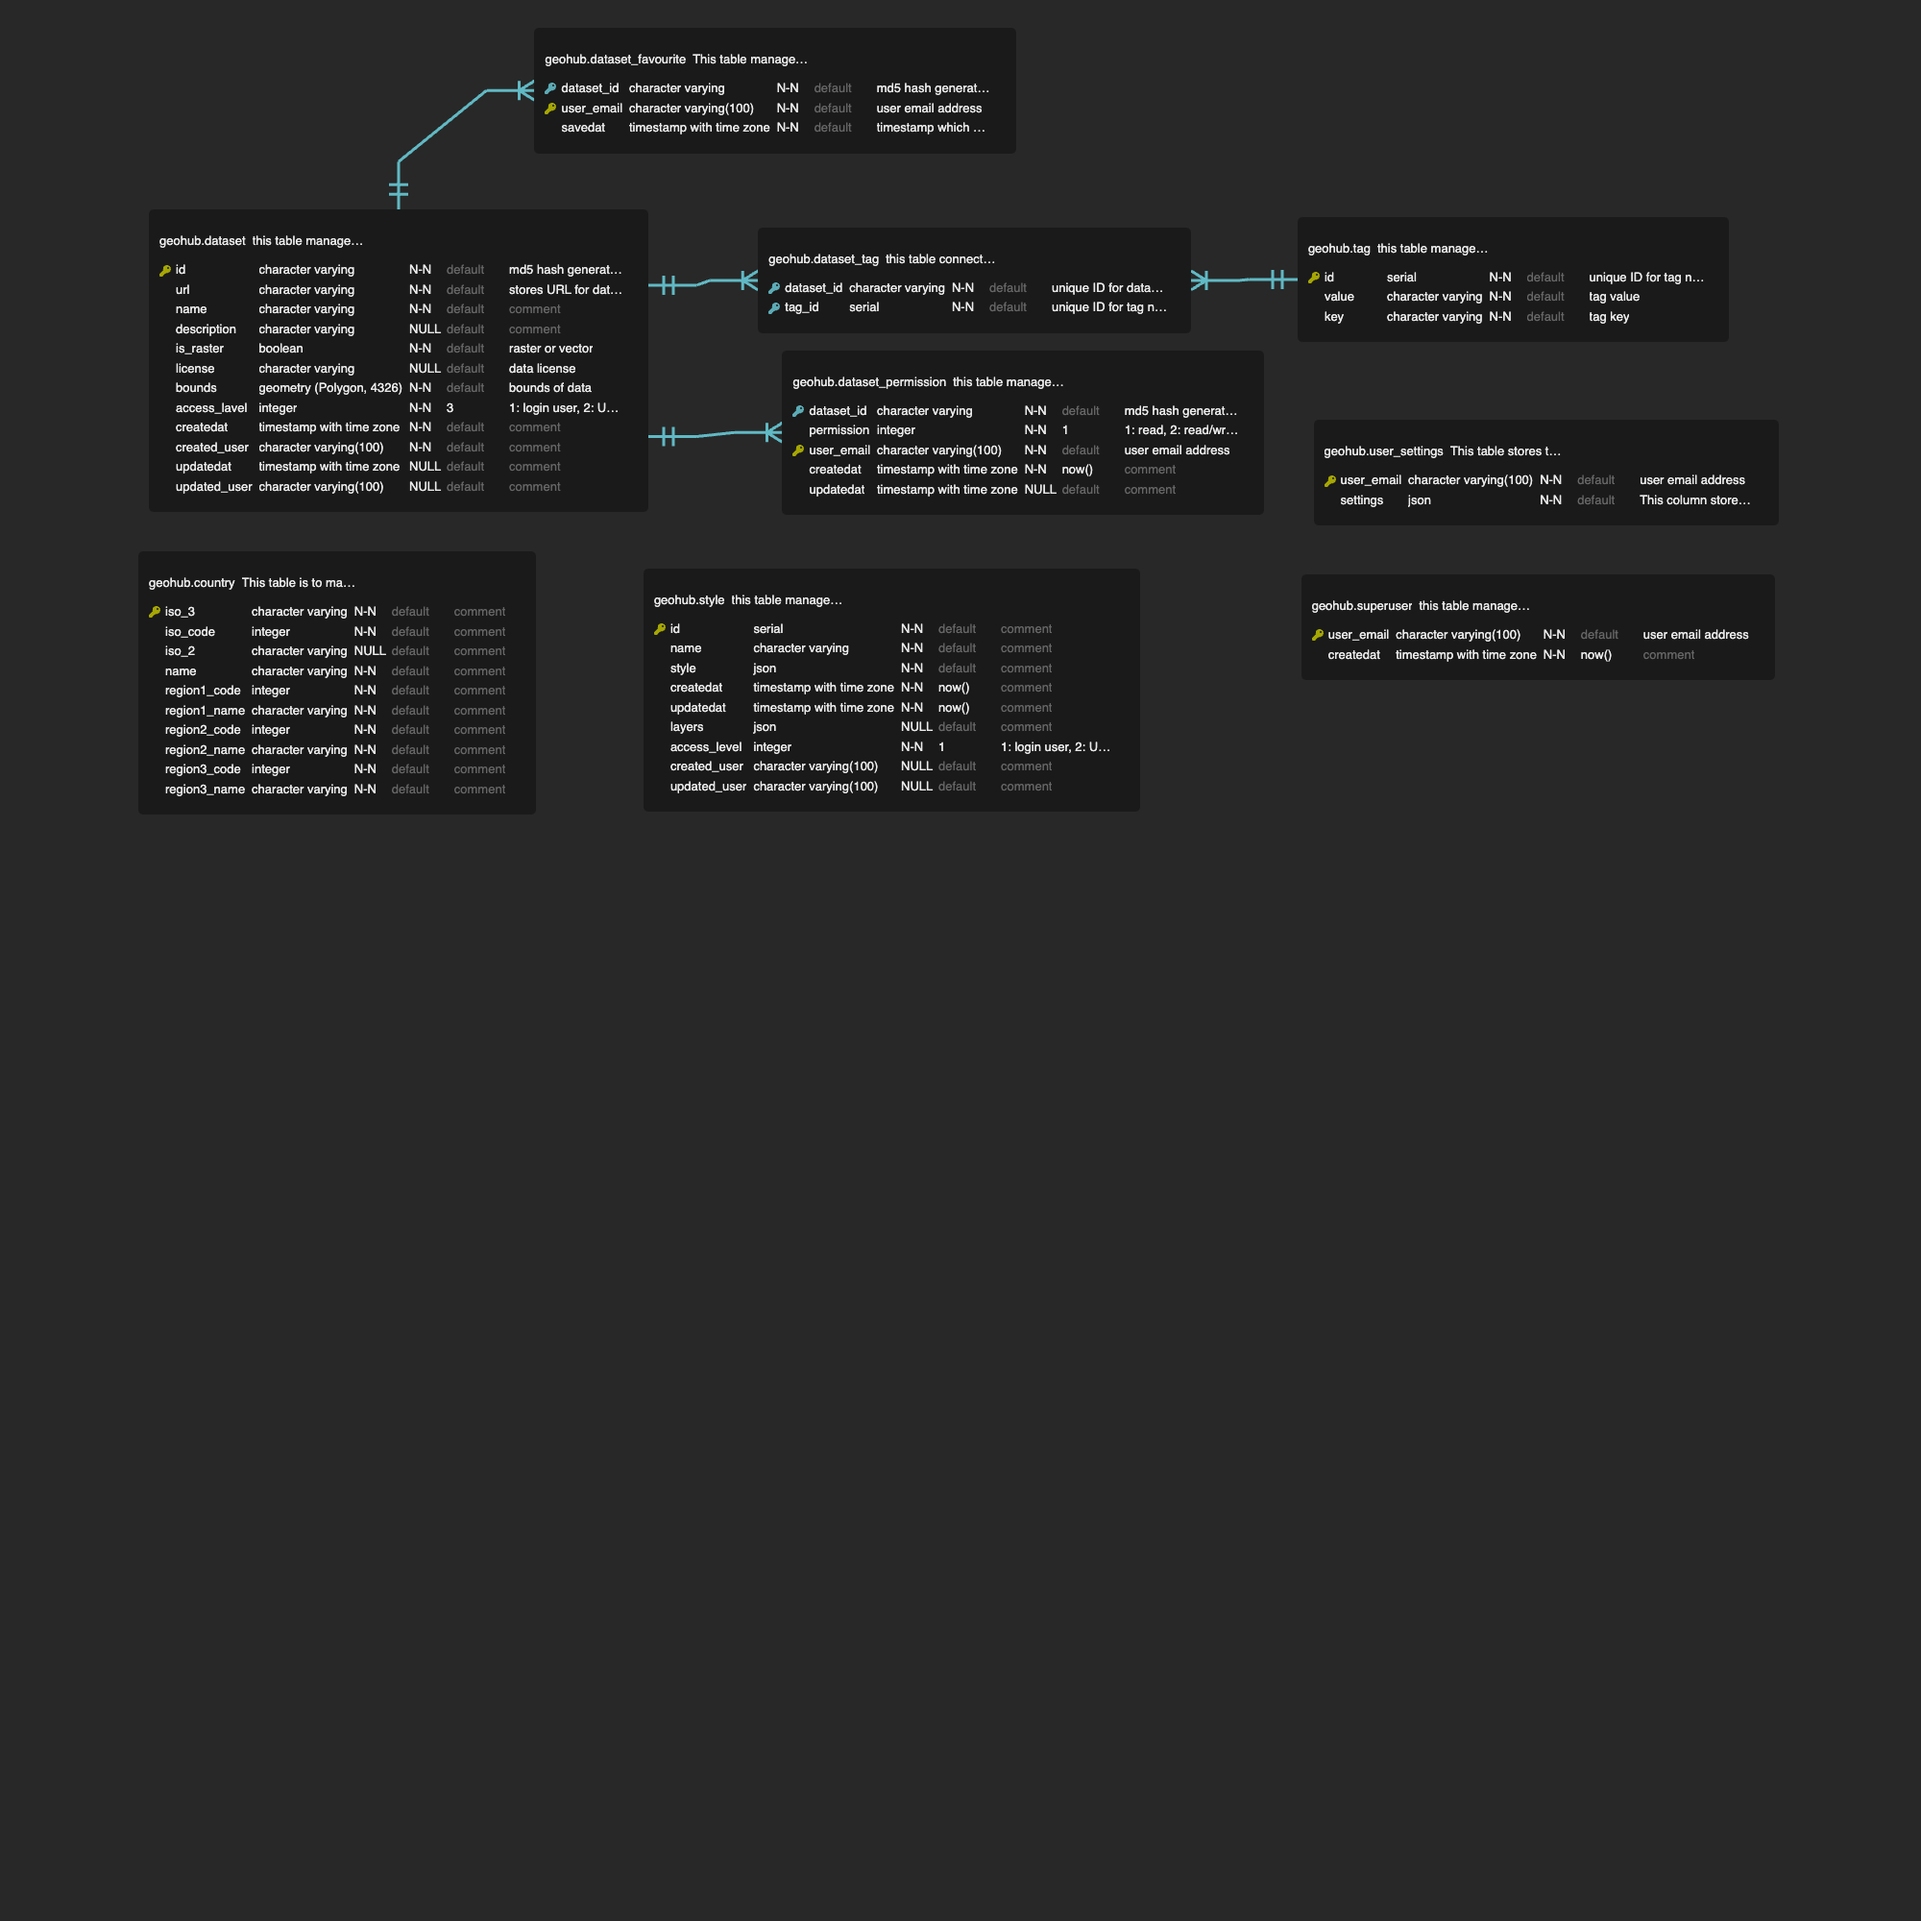
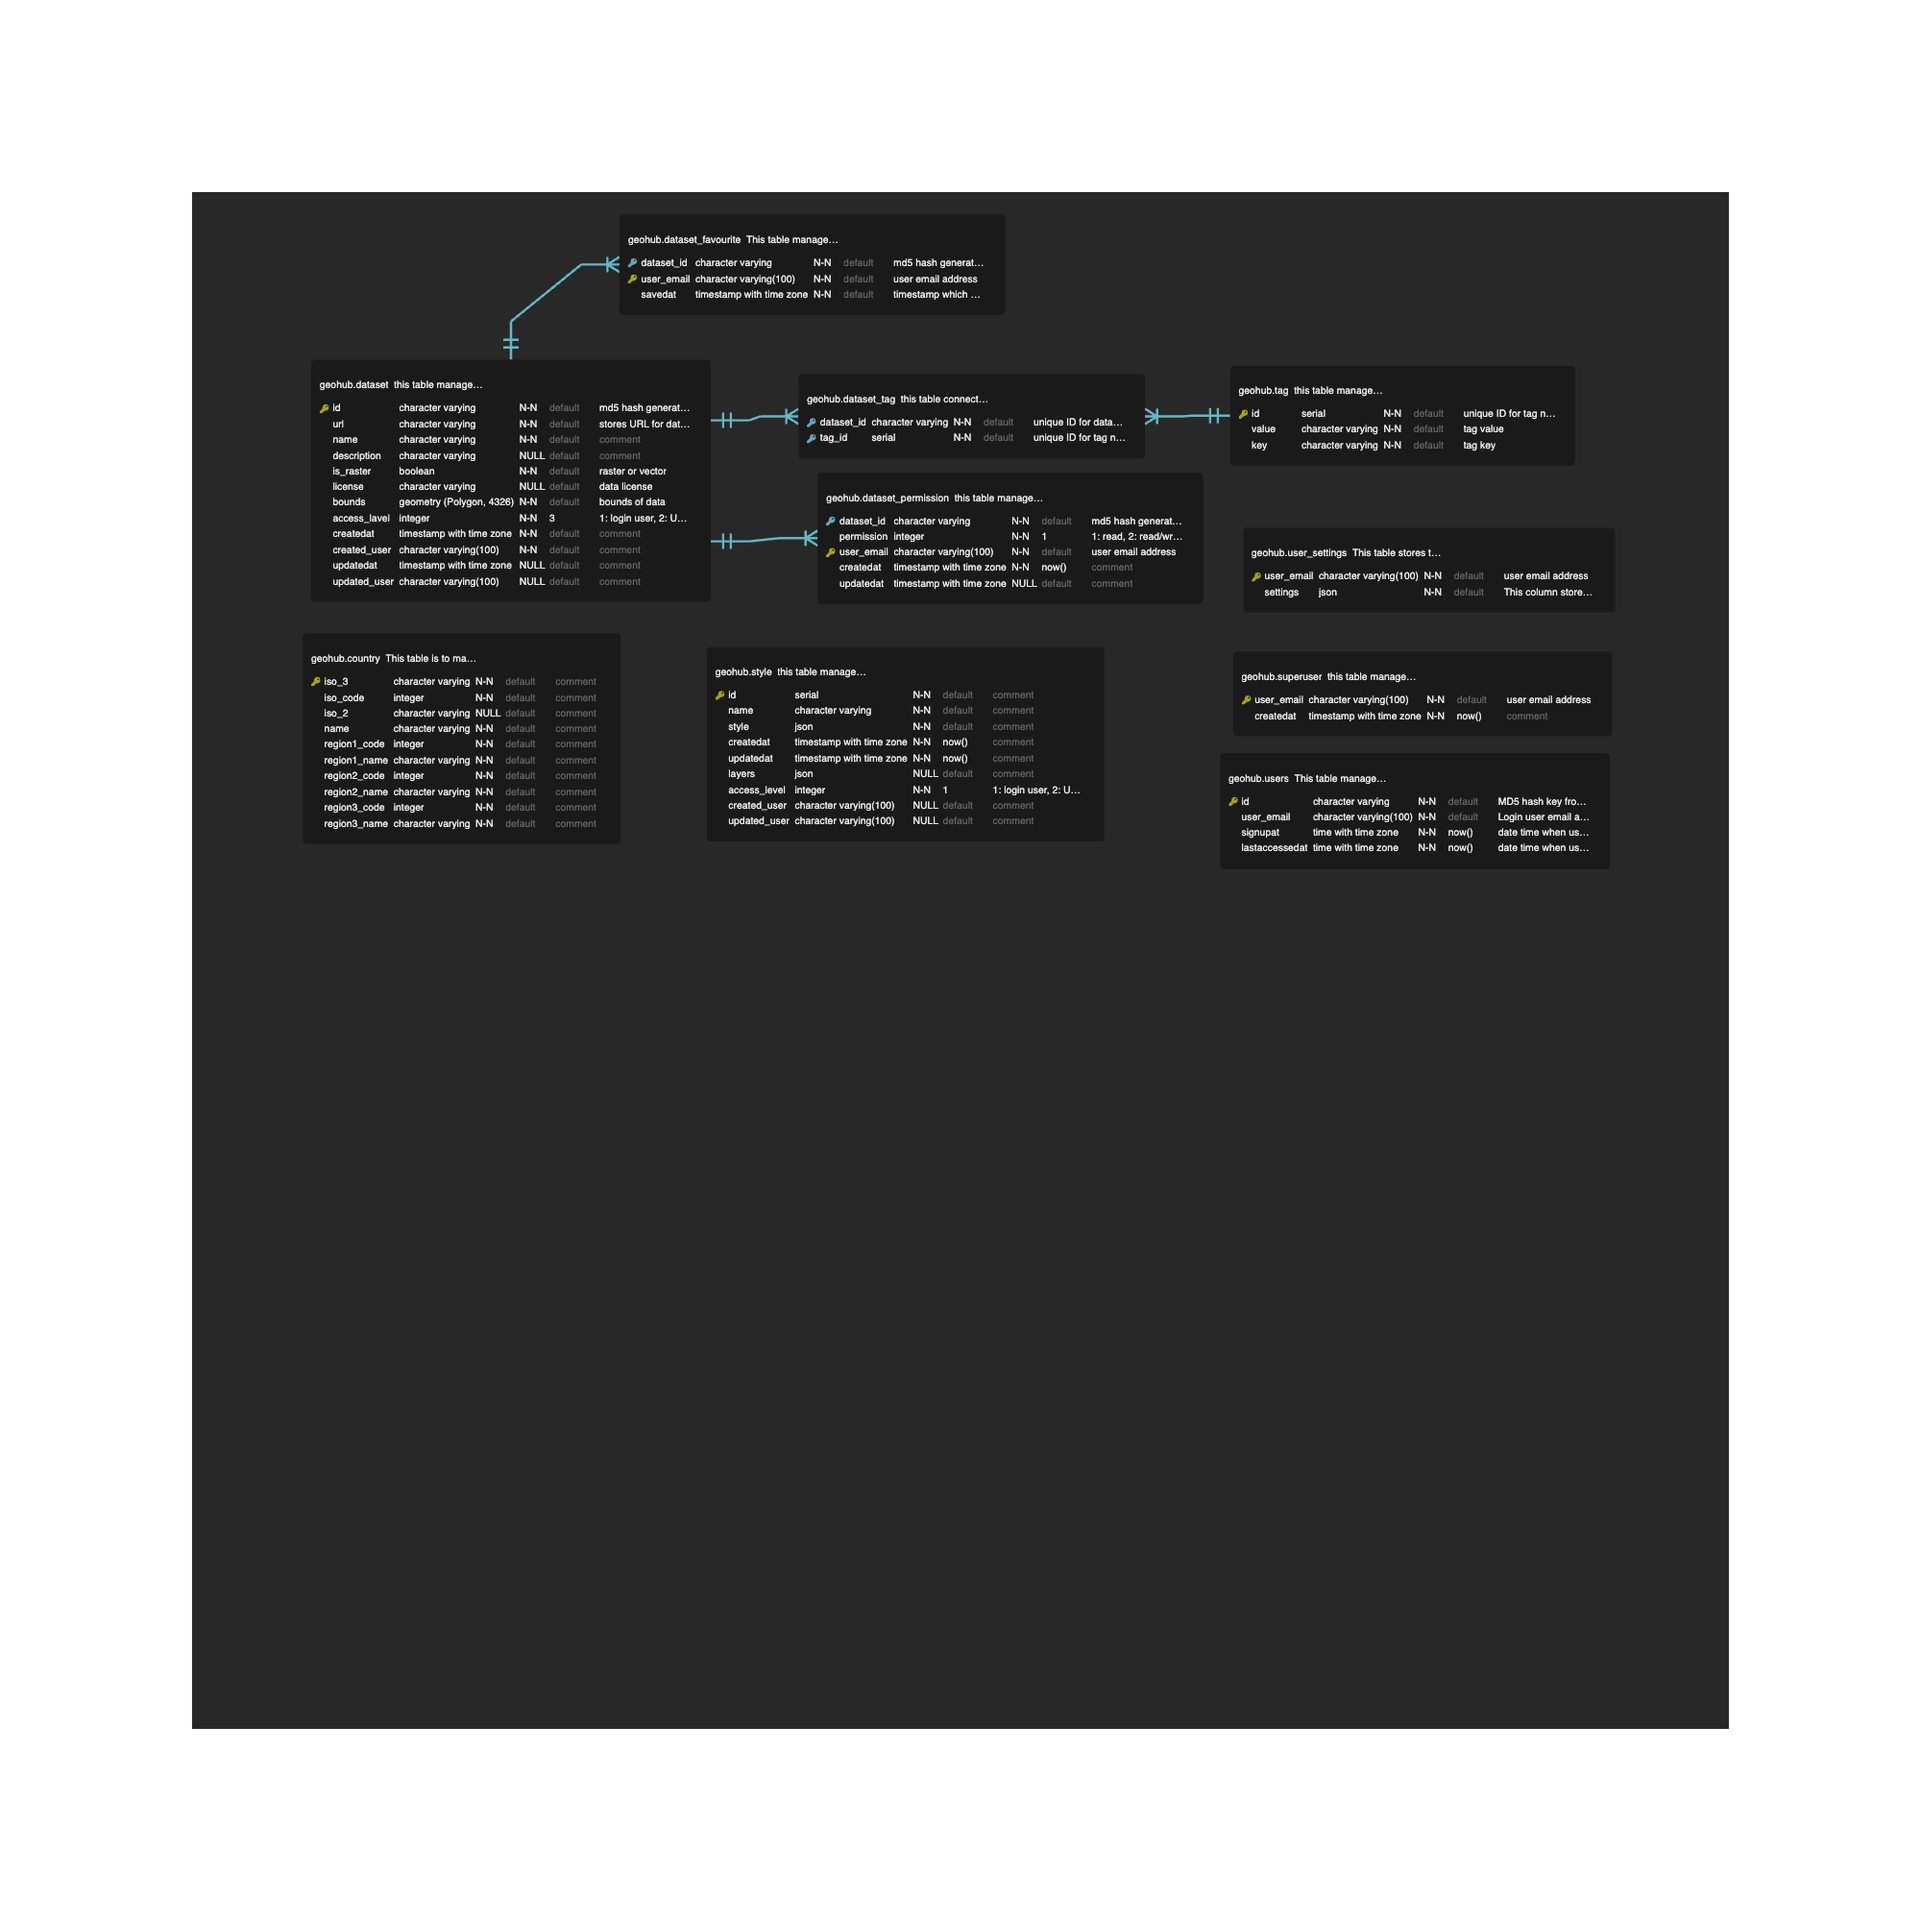
feat: add users table and store login user info in database at hooks.server.ts (#1915)

diff --git a/sites/geohub/src/hooks.server.ts b/sites/geohub/src/hooks.server.ts
@@ -4,7 +4,7 @@ import { SvelteKitAuth } from '@auth/sveltekit';
 import AzureADProvider from '@auth/core/providers/azure-ad';
 import GitHub from '@auth/core/providers/github';
 import { env } from '$env/dynamic/private';
-import { generateHashKey, getMe } from '$lib/server/helpers';
+import { generateHashKey, getMe, upsertUser } from '$lib/server/helpers';
 
 const redirects = {
 	'/dashboards': '/',
@@ -75,6 +75,9 @@ const handleAuth = SvelteKitAuth({
 				// eslint-disable-next-line @typescript-eslint/ban-ts-comment
 				// @ts-ignore
 				session.user.id = generateHashKey(session.user.email);
+
+				// store signed up user email to database. If not first time visit, update last accessed time column
+				await upsertUser(session.user.email);
 			}
 
 			// console.log(session)

diff --git a/sites/geohub/src/lib/server/helpers/upsertUser.ts b/sites/geohub/src/lib/server/helpers/upsertUser.ts
@@ -1,0 +1,22 @@
+import DatabaseManager from '$lib/server/DatabaseManager';
+
+export const upsertUser = async (user_email: string) => {
+	const dbm = new DatabaseManager();
+	try {
+		const client = await dbm.start();
+
+		const query = {
+			text: `
+			INSERT INTO geohub.users (id, user_email) values(MD5($1), $1)
+			ON CONFLICT (id) DO UPDATE SET lastaccessedat = now()
+			`,
+			values: [user_email]
+		};
+		await client.query(query);
+	} catch (e) {
+		console.error(e);
+		throw e;
+	} finally {
+		await dbm.end();
+	}
+};

diff --git a/sites/geohub/src/lib/server/helpers/index.ts b/sites/geohub/src/lib/server/helpers/index.ts
@@ -21,3 +21,4 @@ export * from './isSuperuser';
 export * from './upload';
 export * from './getBlobServiceClient';
 export * from './sendMessageToServiceBusQueue';
+export * from './upsertUser';
